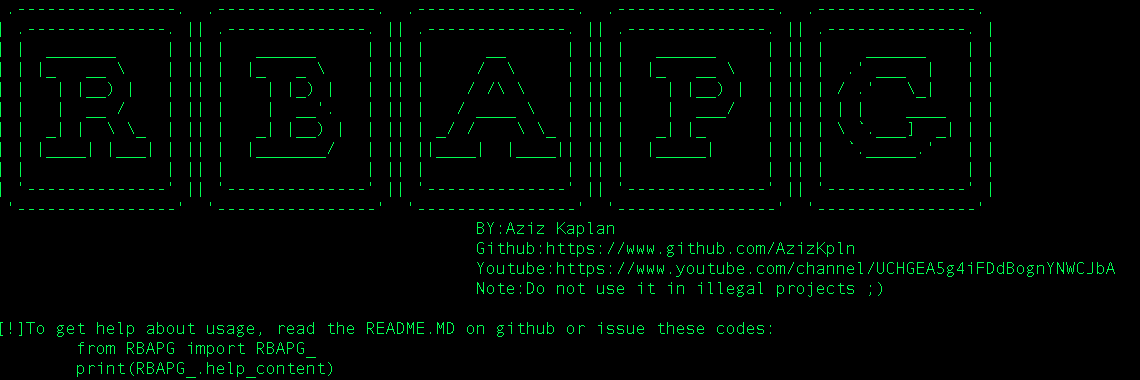
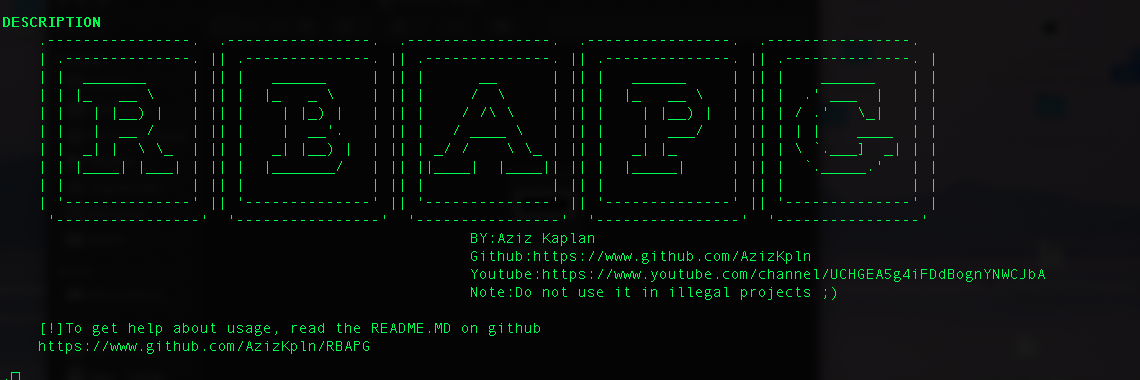
v0.0.5

diff --git a/RBAPG/__init__.py b/RBAPG/__init__.py
@@ -15,12 +15,9 @@
 						Youtube:https://www.youtube.com/channel/UCHGEA5g4iFDdBognYNWCJbA
 						Note:Do not use it in illegal projects ;)
 
-[!]To get help about usage, read the README.MD on github or issue these codes:
-	from RBAPG import RBAPG_
-	print(RBAPG_.help_content)
+[!]To get help about usage, read the README.MD on github
+https://www.github.com/AzizKpln/RBAPG
 """
-
-from .functions import *
 import logging
 import sys
 import itertools
@@ -39,7 +36,7 @@ class RuleBasedAttackPasswordGenerator:
 		self.enhancer=0
 		self.logging_module_errors()
 	def __help__(self):
-		print(help_content)
+		print("https://github.com/AzizKpln/RBAPG")
 	def logging_module_errors(self):
 		logging.basicConfig(level=logging.DEBUG)
 	@property

diff --git a/setup.py b/setup.py
@@ -3,7 +3,7 @@ from setuptools import setup,find_packages
 
 setup(
     name="RBAPG",
-    version="0.0.1",
+    version="0.0.5",
     packages=find_packages(),
     url="https://github.com/AzizKpln/RBAPG",
     license="GPL-3.0",

diff --git a/README.md b/README.md
@@ -14,7 +14,9 @@
 # MODULE USAGE
 * Call The Module
 
-> from RBAPG import RBAPG_
+> import RBAPG
+
+> RBAPG=RBAPG.RuleBasedAttackPasswordGenerator()
 
 * Set the length of password
 
@@ -39,9 +41,9 @@
 
 # Example Usage
 ```
-from RBAPG import RBAPG_
+import RBAPG
 
-RBAPG=RBAPG_.RuleBasedAttackPasswordGenerator() #Set the class in a variable.
+RBAPG=RBAPG.RuleBasedAttackPasswordGenerator() #Set the class in a variable.
 
 RBAPG.setLengthOfGeneratedPassword(4)           #Set the length of generated password(if you say 4,
                                                 #this means the length of password can be a maximum of 4 strings long.)
